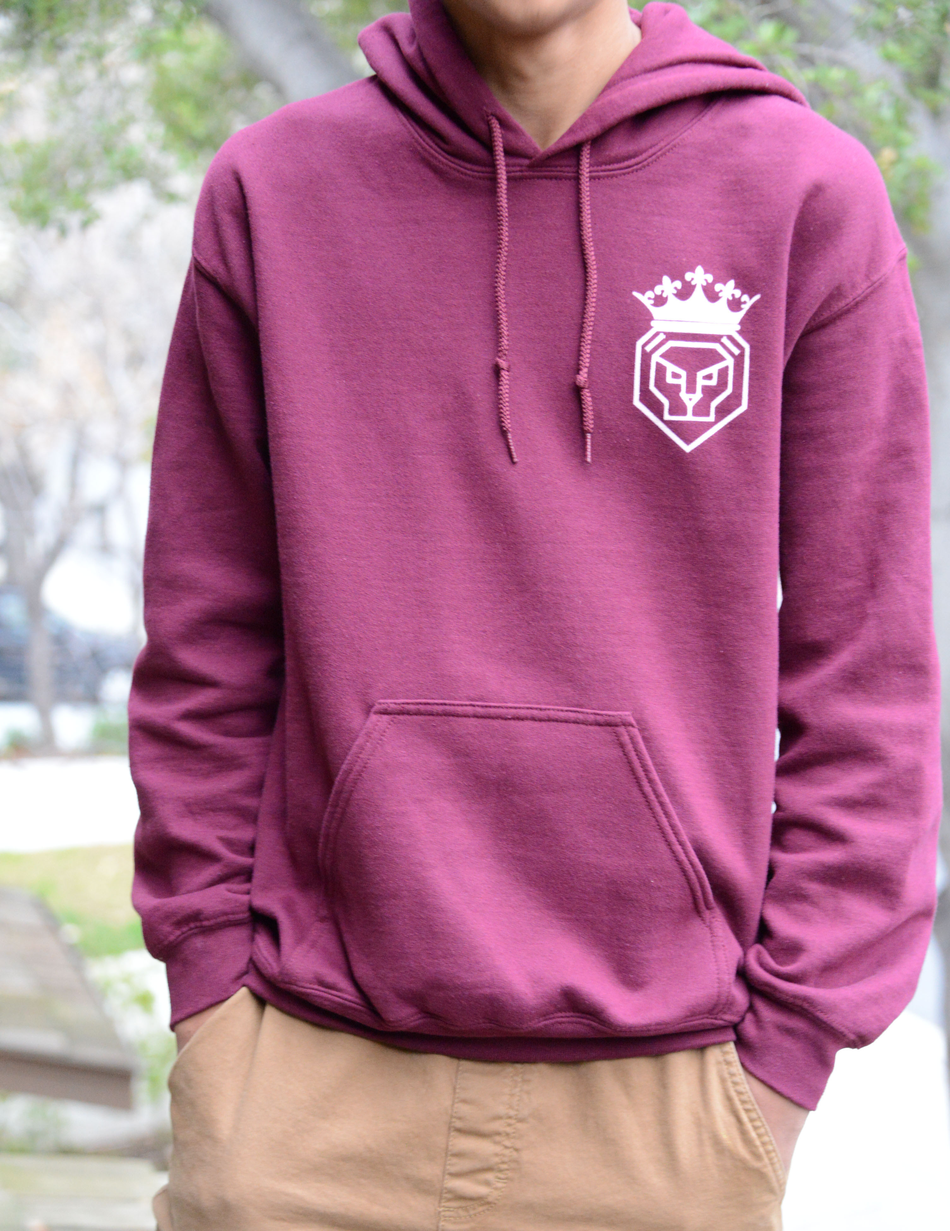
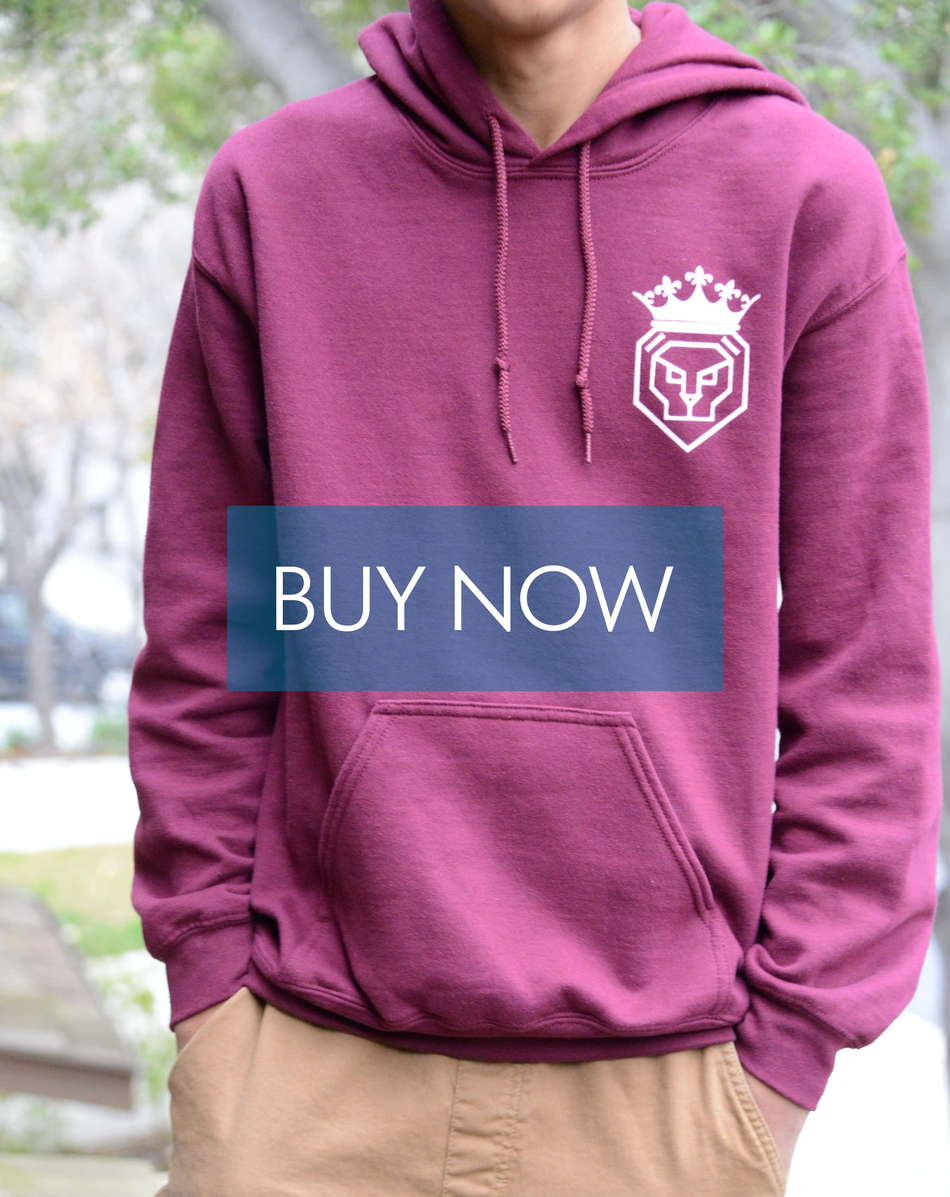
updated to website

diff --git a/about.html b/about.html
@@ -1,0 +1,62 @@
+<!DOCTYPE html>
+<html>
+	<head>
+		<script src="js/jquery-2.2.0.min.js"></script>
+		<link rel="stylesheet" href="https://maxcdn.bootstrapcdn.com/bootstrap/3.3.6/css/bootstrap.min.css">
+		<script src="https://maxcdn.bootstrapcdn.com/bootstrap/3.3.6/js/bootstrap.min.js"></script>
+		<title>Royale Apparel - About</title>
+	</head>
+	<body>
+		<nav class="navbar navbar-default navbar-static-top" style="margin-bottom:0px;">
+			<div class="container">
+				<div class="navbar-header">
+        			<button type="button" class="navbar-toggle collapsed" data-toggle="collapse" data-target="#navbar-collapse-1" aria-expanded="false">
+        				<span class="sr-only">Toggle navigation</span>
+       					<span class="icon-bar"></span>
+        				<span class="icon-bar"></span>
+        				<span class="icon-bar"></span>
+      				</button>
+      				<a class="navbar-brand" href="#">Royale Apparel</a>
+    			</div>
+
+    			<div class="collapse navbar-collapse" id="navbar-collapse-1">
+      				<ul class="nav navbar-nav navbar-right">
+        				<li ><a href="index.html">Home</a></li>
+        				<li><a href="products.html">Products</a></li>
+        				<li class="active"><a href="about.html">About</a></li>
+      				</ul>
+    			</div>
+			</div>
+		</nav><br>
+		<div class="container" >
+			<div class="jumbotron">
+				<center><h1>Our Purpose</h1></center>
+				<div><p><b>Defying stereotypes. Breaking trends. Being unique. </b> Royale stands for a lot more than just a clothing brand. It is the mere notion that anyone can do the unexpected. Following the crowd and conforming to everyone’s expectations is the easy route to take, but in the end, doing what you truly want speaks volumes more to the mind.</p></div>
+				<center><h1>Team</h1></center>	
+				<div class="row">
+					<div class="col-md-4" style="display:inline-block;vertical-align:middle;">
+						<div class="row">
+							<div class="col-md-6">
+								<img src="images/venkat.png" width="110%" align="middle"alt="">
+							</div>
+							<div class="col-md-6">
+								<img src="images/abhinay.png" width="110%" align="middle" alt="">
+							</div>
+						</div>
+					</div>
+					<div class="col-md-8" style="padding-left:50px;display:inline-block;vertical-align:middle;"><p>Venkat Uppalapati and Abhinay Aeruva, the founders of Royale Apparel, are currently juniors at Mission San Jose High School. Royale was founded on the principle that stylish clothing could be targeted towards everyone, not just the designated “hype” target market. Clothing in that market, often unreasonably expensive, is not readily made available to the general audience. Royale Apparel seeks to change that, as our youthful and unique clothing is priced much more reasonably, yet has innovative and standout designs. </p></div>
+				</div>
+				<center><h1>Fighting for Good</h1></center>
+				<div class="row">
+					
+					<div class="col-md-8" style="padding-left:50px;"><p>Our logo is simple, but it defines who we are and what we stand for. The lion represents strength, and courage. We are raising money to help little boys and girls win the war against cancer. Each and every one of them are extremely strong and courageous for continuing to fight against the cold clutches of cancer. The crown represents authority, command and power. By being courageous and strong, these little soldiers have taken command of their lives and they lead the fight against cancer.
+
+</p></div>
+					<div class="col-md-4">
+								<img src="images/logo.svg" width="50%" align="middle" alt="">
+					</div>
+				</div>
+			</div>
+		</div> 	
+	</body>
+</html>

diff --git a/products.html b/products.html
@@ -9,12 +9,10 @@
 		<link rel="stylesheet" href="https://maxcdn.bootstrapcdn.com/bootstrap/3.3.6/css/bootstrap.min.css">
 		<script src="https://maxcdn.bootstrapcdn.com/bootstrap/3.3.6/js/bootstrap.min.js"></script>
 		<script src="https://cdn.jsdelivr.net/scrollreveal.js/3.0.9/scrollreveal.min.js"></script>
-		<script>
-		    new WOW().init();
-    	</script>
-    	<title>Royale Apparel</title>
+		<title>Royale Apparel - Products</title>
 	</head>
-	<body style="overflow-y:hidden;">
+
+	<body>
 		<nav class="navbar navbar-default navbar-static-top" style="margin-bottom:0px;">
 			<div class="container">
 				<div class="navbar-header">
@@ -29,26 +27,31 @@
 
     			<div class="collapse navbar-collapse" id="navbar-collapse-1">
       				<ul class="nav navbar-nav navbar-right">
-        				<li class="active"><a href="index.html">Home</a></li>
-        				<li><a href="products.html">Products</a></li>
+        				<li ><a href="index.html">Home</a></li>
+        				<li class="active"><a href="products.html">Products</a></li>
         				<li><a href="about.html">About</a></li>
       				</ul>
     			</div>
 			</div>
 		</nav>
-		<div class="container-custom" >
-			<div class="overlay"></div>
-			<div class="mainText">
-
-				<h1><span style="padding:20px;">Royale Apparel<br></span></h1>
-				<p><span style="padding:50px;">Dope clothing for a dope cause.<br></span></p>
-				<a href="products.html" class="btn btn-default">SHOP NOW</a>
+		<div class="container">
+		<div id="products" style="text-align:center;" class="wow fadeInUp" data-wow-offset="30">
+			<h1 style="font-size:60px;">Products</h1>
+			<div class="col-md-4">
+				<h1 >Hoodies</h1>
+				<a href="product.php?id=1"><img src="images/hoodies.JPG" alt="" width ="100%"></a><br>
+				
 			</div>
+			<div class="col-md-4">
+				<h1>Crewnecks</h1>
+				<a href="product.php?id=2"><img src="images/crewnecks.JPG" id="crewneckimg" class="animated" alt="" width="100%"></a><br>
+			</div>
+			<div class="col-md-4">
+				<h1>T-shirts</h1>
+				<a href="product.php?id=3"><img src="images/tshirt.jpg" alt="" width="100%"></a><br>
+			</div>
+
 		</div>
-
-		<div class="seperator"></div>
-
-		
-
+		</div>
 	</body>
 </html>

diff --git a/product.php b/product.php
@@ -1,0 +1,110 @@
+<?php
+	$id = $_GET['id'];
+
+	$names = array("Hoodies", "Crewnecks", "T-shirts" );
+	$prices = array(32,27,20);
+	$PayPalValue = array("4KPATK8YH578C","ZWJ47QUW6SLNU","PXURG4WLCZ85S");
+	if($id == 2){
+		$options = "<option disabled>Black - SOLD OUT</option><option >Grey</option><option disabled>Maroon - SOLD OUT</option>";
+	}elseif($id == 1){
+		$options = "<option disabled>Black - SOLD OUT</option><option disabled>Grey - SOLD OUT</option><option >Maroon</option>";	
+	}elseif($id == 3){
+		$options = "<option >Black</option><option disabled>Grey - SOLD OUT</option><option disabled>Maroon - SOLD OUT</option>";	
+	}
+
+?>
+
+<html>
+	<head>
+		<link rel="stylesheet" href="css/style.css">
+		<script src="js/jquery-2.2.0.min.js"></script>
+		<link rel="stylesheet" href="https://maxcdn.bootstrapcdn.com/bootstrap/3.3.6/css/bootstrap.min.css">
+		<script src="https://maxcdn.bootstrapcdn.com/bootstrap/3.3.6/js/bootstrap.min.js"></script>
+		<title>Royale Apparel - Products</title>
+	</head>
+	
+	<body>
+		<nav class="navbar navbar-default navbar-static-top">
+			<div class="container">
+				<div class="navbar-header">
+        			<button type="button" class="navbar-toggle collapsed" data-toggle="collapse" data-target="#navbar-collapse-1" aria-expanded="false">
+        				<span class="sr-only">Toggle navigation</span>
+       					<span class="icon-bar"></span>
+        				<span class="icon-bar"></span>
+        				<span class="icon-bar"></span>
+      				</button>
+      				<a class="navbar-brand" href="#">Royale Apparel</a>
+    			</div>
+
+    			<div class="collapse navbar-collapse" id="navbar-collapse-1">
+      				<ul class="nav navbar-nav navbar-right">
+        				<li><a href="index.html">Home</a></li>
+        				<li class="active"><a href="products.html">Products</a></li>
+        				<li><a href="about.html">About</a></li>
+      				</ul>
+    			</div>
+			</div>
+		</nav>
+		<div class="container">
+			<div class="jumbotron">
+				<center><h1><?php echo $names[$id-1];?></h1></center>
+				<div class="row">
+					<div class="col-md-6">
+					<div id="myCarousel" class="carousel slide" data-ride="carousel">
+  <!-- Indicators -->
+  <ol class="carousel-indicators">
+    <li data-target="#myCarousel" data-slide-to="0" class="active"></li>
+    <li data-target="#myCarousel" data-slide-to="1"></li>
+  </ol>
+
+  <!-- Wrapper for slides -->
+  <div class="carousel-inner" role="listbox">
+    <div class="item active">
+      <img src="images/products/<?php echo $id; ?>.JPG" alt="Chania">
+    </div>
+
+    <div class="item">
+      <img src="images/products/<?php echo $id . "-back"; ?>.jpg" onError="this.src='images/products/<?php echo $id; ?>.JPG'">
+    </div>
+  </div>
+
+  <!-- Left and right controls -->
+  <a class="left carousel-control" href="#myCarousel" role="button" data-slide="prev">
+    <span class="glyphicon glyphicon-chevron-left" aria-hidden="true"></span>
+    <span class="sr-only">Previous</span>
+  </a>
+  <a class="right carousel-control" href="#myCarousel" role="button" data-slide="next">
+    <span class="glyphicon glyphicon-chevron-right" aria-hidden="true"></span>
+    <span class="sr-only">Next</span>
+  </a>
+</div>
+						<!--<img src="images/products/<?php echo $id; ?>.JPG" alt="" width="100%">-->
+					</div>
+					<div class="col-md-6">
+						<p>Price: <?php echo $prices[$id-1]; ?> USD</p>
+						<form name="_xclick" action="https://www.paypal.com/us/cgi-bin/webscr">
+							<input type="hidden" name="cmd" value="_s-xclick">
+							<input type="hidden" name="id" value="<?php echo $id;?>"></input>
+							<input type="hidden" name="hosted_button_id" value="<?php echo $PayPalValue[$id - 1]?>">
+						<input type="hidden" name="on0" value="Size">Size
+							<select name="os0" id="size" class="form-control">
+								<option>Small</option><option>Medium</option><option>Large</option> <option disabled="disabled">Extra Large - SOLD OUT</option>
+							</select>
+						<br><br>
+						<input type="hidden" name="on1" value="Color">
+						Color:
+							<select name="os1" id="color" class="form-control">
+								<?php echo $options;?>
+							</select>
+						<br><br>
+							<a href="http://goo.gl/forms/BnlrJdZq1l" value="pickup" class="btn btn-success">Pick up/pay in person (MSJHS)</a>
+						<br><br>
+							<button type="submit" name="btn" value="paypal" class="btn btn-info">Pay w/ PayPal</button>
+						</form>
+
+					</div>
+				</div>
+			</div>
+		</div>
+	</body>
+</html>
